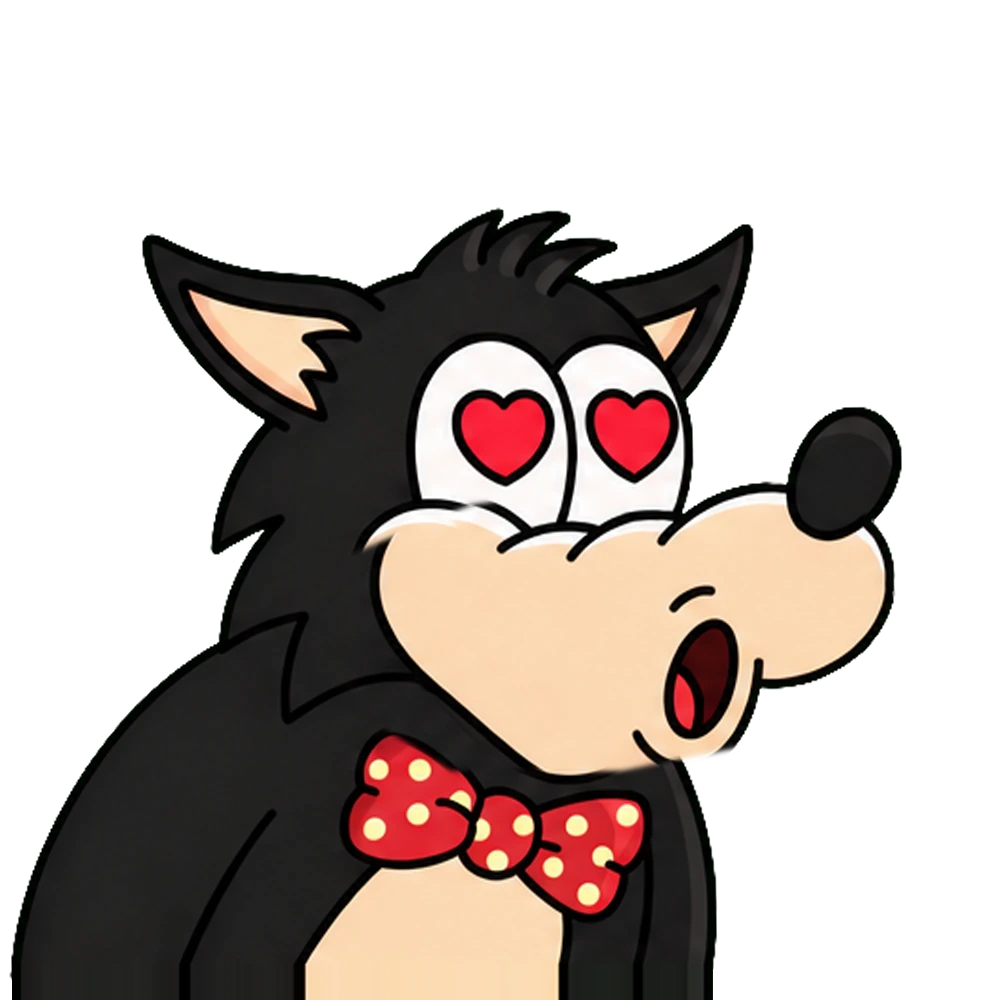
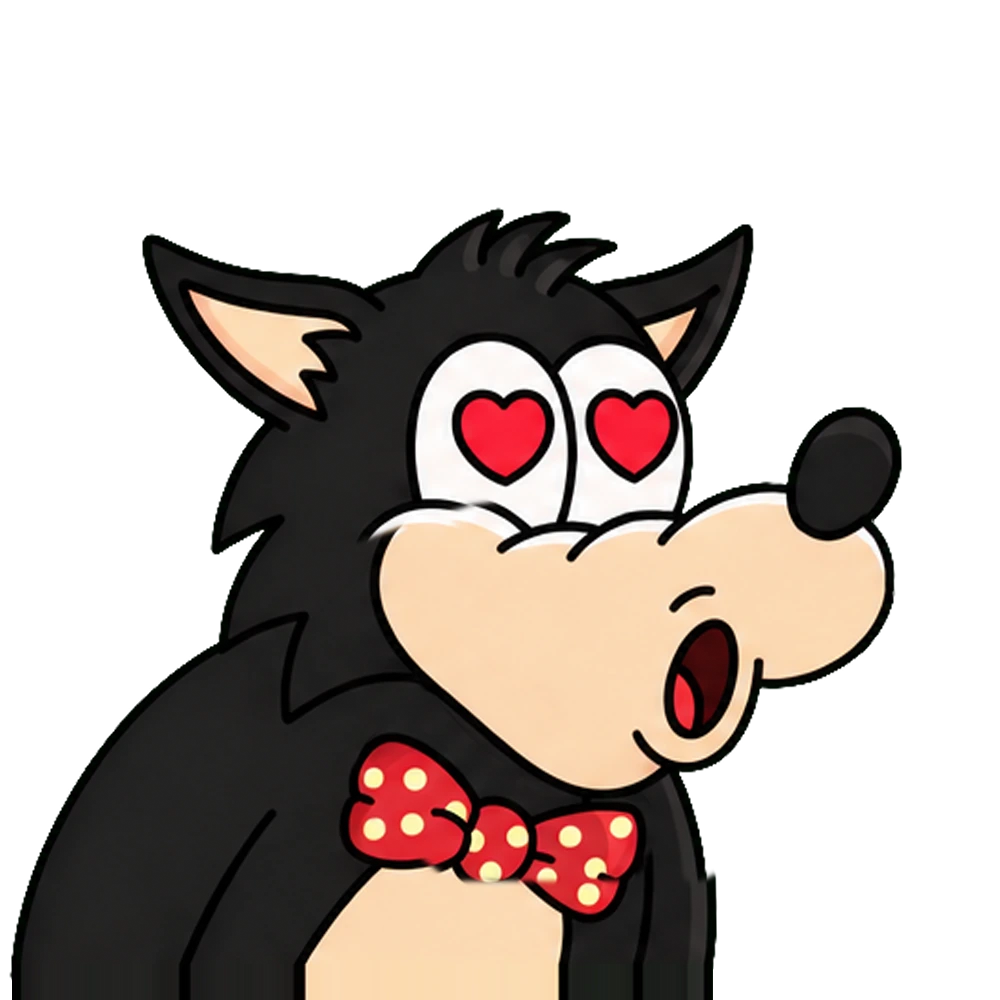
Wolf's jaw no longer cut off; mouth shapes hold long enough to read
- Wolf's mouth area reaches down to his bow tie; the tie stays fixed unless his jaw drops over it
- Each mouth shape now stays up at least ~0.11 s (closing ~0.07 s) and the most-requested shape over the last 0.1 s wins, so jittery readings can't flicker between styles
- Teeth (EE) need a clearer smile-stretch; a short pause mid-sentence no longer flashes the closed mouth

Claude-Session: https://claude.ai/code/session_01AAjfD4JXrwKrGtAMJHTTVa

Changed region(s): [[0.341, 0.713, 0.744, 0.899], [0.341, 0.527, 0.403, 0.558]]

diff --git a/index.html b/index.html
@@ -376,14 +376,14 @@ function pickMouth(f, now) {
   else if (openLvl === 2 && f.open < 0.5) openLvl = 1;
   else if (openLvl === 1 && f.open < 0.1) openLvl = 0;
   if (V.on && V.trusted) {
-    const quiet = now - V.lastVoice > 110;
+    const quiet = now - V.lastVoice > 170;
     if (quiet && f.open < 0.35) openLvl = 0;                         // sound stopped: shut the mouth right away
     else if (V.voiced && openLvl === 0 && f.open > 0.05) openLvl = 1; // sound started: open right away
   }
   // Rounded (O, OO, W) needs the lips actually pulled narrower than at rest. L, D, T, N keep the mouth its normal width,
   // so a pucker reading alone (which spikes on L) no longer counts as round.
   const narrow = f.wide < -0.3, round = narrow && (f.round > 0.35 || f.wide < -0.55);
-  const wideM = f.wide > 0.5 && f.smile > 0.45;                  // teeth only for a real open "EE"/grin
+  const wideM = f.wide > 0.6 && f.smile > 0.55;                  // teeth only for a real open "EE"/grin
   const hiss = V.on && V.trusted ? V.hiss : 0;
   // F / V: lower lip rolled in under the top teeth while the upper lip stays put; with the mic, also a hiss
   const fvLook = f.lowIn > 0.45 && f.upIn < 0.35 && f.open < 0.3;
@@ -418,6 +418,19 @@ function pickEyes(f, now) {
 }
 // Switch with a short cross-fade so changes blend instead of popping.
 const FADE = { mouth:40, eye:40 };
+// Mouth shapes are held like hand-drawn lip-sync (about 2 frames at 12 fps): a new shape must be asked for
+// steadily for a moment, and each shape stays up long enough to read. Closing for silence or M/B/P is quicker.
+const MH = [];   // recent shape requests
+function settleMouth(want, now) {
+  MH.push([now, want]); while (MH.length && now - MH[0][0] > 100) MH.shift();
+  // the shape asked for most over the last ~0.1 s wins, so jitter between two shapes can't flicker
+  const tally = {}; for (const [, w] of MH) tally[w] = (tally[w] || 0) + 1;
+  let best = want, bn = 0; for (const w in tally) if (tally[w] > bn) { bn = tally[w]; best = +w; }
+  const m = S.mouth, shown = now - m.t;
+  if (best === m.cur) return;
+  const closing = best === 0 || best === 1;
+  if (bn / MH.length >= 0.5 && shown >= (closing ? 70 : 110)) { m.prev = m.cur; m.cur = best; m.t = now; }
+}
 function step(slot, want, now, minHold) {
   if (want !== slot.cur && now - slot.t > minHold) { slot.prev = slot.cur; slot.cur = want; slot.t = now; }
 }
@@ -472,7 +485,7 @@ function drawNibble(t) {
   const breathe = Math.sin(t/650) * 0.006;
   if (live) {
     readVoice(t);
-    step(S.mouth, pickMouth(f, t), t, 30);
+    settleMouth(pickMouth(f, t), t);
     const e = pickEyes(f, t);
     // a blink never jumps straight from open to shut: it passes through half-closed
     if (e === 4 && S.eye.cur !== 4 && S.eye.cur !== 3) step(S.eye, 3, t, 0);
